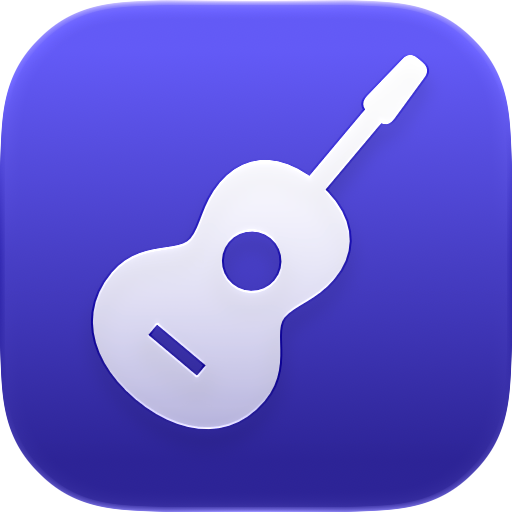
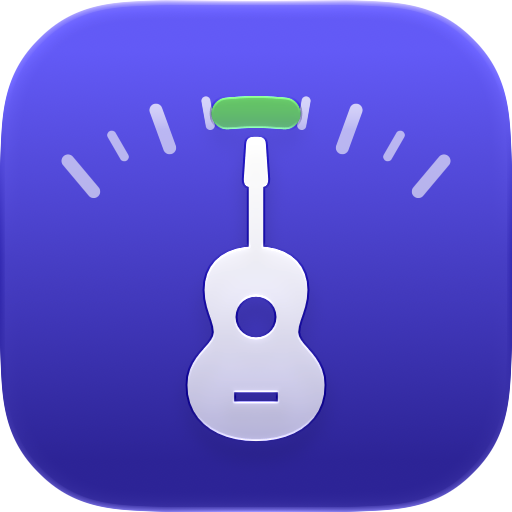
Icona "chitarra-ago", finestre Mac affidabili e audit di accessibilità su tutte le piattaforme
- Icona: la chitarra è l'ago di uno strumento di misura e punta alla zona verde della scala (tre livelli Icon Composer: chitarra in vetro, zona intonata, scala)
- macOS: niente Automatic Termination (un'app "chiusa" restava viva senza finestre e il rilancio la riusava); Informazioni e Licenza non si riaprono all'avvio; i test UI portano l'app in primo piano se il runner l'ha avviata in background
- VoiceOver su Mac: i chip delle corde e Auto restano pulsanti con azione, quadrante e lettura come testo statico, selettore d'ingresso come pop-up di sistema (menu su iPhone e iPad)
- Pulsante principale come capsula piena senza vetro sovrapposto; messaggio d'errore e numeri delle corde in colore primario
- L'audit dei test UI non campiona più il contrasto (falsi positivi su nero-su-bianco vicino al Liquid Glass): il contrasto resta verificato con la formula WCAG da ColorContrastTests, che ora compila anche con Swift 6.2
- Screenshot: la seconda schermata cattura la corda ancora calante, la quarta è davvero in modo scuro; gli screenshot generati non sono versionati

diff --git a/ChitarraTuneUITests/ChitarraTuneUITests.swift b/ChitarraTuneUITests/ChitarraTuneUITests.swift
@@ -10,10 +10,6 @@ final class ChitarraTuneUITests: XCTestCase {
         continueAfterFailure = false
         app = XCUIApplication()
         app.launchArguments += ["-demo", "-AppleLanguages", "(en)", "-AppleLocale", "en_US"]
-        #if os(macOS)
-        // Every test starts from a fresh window, not the windows macOS restored from the last run.
-        app.launchArguments += ["-ApplePersistenceIgnoreState", "YES"]
-        #endif
     }
 
     override func tearDown() async throws {
@@ -30,24 +26,28 @@ final class ChitarraTuneUITests: XCTestCase {
     }
 
     private func waitForTuner(file: StaticString = #filePath, line: UInt = #line) {
+        #if os(macOS)
+        // AppKit opens the first window when the app becomes active. A runner that launched it in
+        // the background (CI, or a Mac in use) must bring it forward.
+        if !element("listenButton").waitForExistence(timeout: 5) { app.activate() }
+        #endif
         XCTAssertTrue(element("listenButton").waitForExistence(timeout: 15), "Tuner did not appear", file: file, line: line)
     }
 
-    /// Xcode's automatic accessibility audit (labels, hit regions, Dynamic Type, clipping, contrast,
-    /// traits). Every issue is reported with the element it concerns, then the test fails once.
+    /// Xcode's automatic accessibility audit: element descriptions, hit regions, traits, actions,
+    /// clipping and Dynamic Type. Every issue is reported with the element it concerns, then the test
+    /// fails once. The few accepted exceptions are in ``isAcceptedException(_:)``, each with its reason.
     ///
-    /// The only issues tolerated are listed in ``isAcceptedException(_:)``, each with its reason.
-    ///
-    /// `live` screens redraw about 40 times a second and animate their colours, so the contrast
-    /// check would sample half-drawn frames there. Their colours are checked deterministically, from
-    /// the asset catalog, by `ColorContrastTests`; every other audit still runs on them.
-    private func audit(_ screen: String, live: Bool = false, file: StaticString = #filePath, line: UInt = #line) throws {
+    /// Contrast is not sampled here. The audit reads rendered pixels and flags black text on white
+    /// once Liquid Glass or an animated background is nearby; contrast is instead computed exactly,
+    /// with the WCAG formula, for every colour of the asset catalog in every appearance, by
+    /// `ColorContrastTests`.
+    private func audit(_ screen: String, file: StaticString = #filePath, line: UInt = #line) throws {
         // Let transitions finish (the background fades between states over 0.6 s), so the audit
         // measures the screen as the user sees it, not a frame in between.
         _ = XCTWaiter.wait(for: [XCTestExpectation(description: "settle")], timeout: 1)
         var problems: [String] = []
-        let types: XCUIAccessibilityAuditType = live ? XCUIAccessibilityAuditType.all.subtracting(.contrast) : .all
-        try app.performAccessibilityAudit(for: types) { issue in
+        try app.performAccessibilityAudit(for: XCUIAccessibilityAuditType.all.subtracting(.contrast)) { issue in
             if self.isAcceptedException(issue) { return true }
             let element = issue.element.map {
                 "\($0.elementType.rawValue) '\($0.identifier)' '\($0.label)' at \($0.frame)"
@@ -66,6 +66,14 @@ final class ChitarraTuneUITests: XCTestCase {
 
     /// Accepted audit findings. Keep this list short and justified.
     private func isAcceptedException(_ issue: XCUIAccessibilityAuditIssue) -> Bool {
+        #if os(macOS)
+        // The Touch Bar and the window's own content groups are AppKit's, not the app's.
+        if let element = issue.element {
+            if element.elementType == .touchBar { return true }
+            let window = app.windows.firstMatch
+            if element.elementType == .group, element.label.isEmpty, window.exists, element.frame == window.frame { return true }
+        }
+        #endif
         #if os(iOS)
         guard issue.auditType == .dynamicType, let element = issue.element else { return false }
         // The ♭ and ♯ at the ends of the gauge are decorative (hidden from VoiceOver) and sized to
@@ -78,6 +86,9 @@ final class ChitarraTuneUITests: XCTestCase {
         if readout.exists, readout.frame.intersects(element.frame), element.frame.height > 60 { return true }
         // Bar buttons are capped by the system and offer the Large Content Viewer instead.
         if app.navigationBars.allElementsBoundByIndex.contains(where: { $0.frame.contains(element.frame) }) { return true }
+        // Rows, headers and footers of the Settings form are system list cells, which scale their
+        // own text (on iPad a form sheet keeps its width, so the audit reports them as partial).
+        if app.collectionViews.allElementsBoundByIndex.contains(where: { $0.frame.contains(element.frame) }) { return true }
         #endif
         return false
     }
@@ -217,7 +228,7 @@ final class ChitarraTuneUITests: XCTestCase {
         let hasNote = NSPredicate(format: "value MATCHES %@", "^[A-G][♯♭]?[0-9], .*")
         expectation(for: hasNote, evaluatedWith: element("noteReadout"))
         waitForExpectations(timeout: 15)
-        try audit("Tuner while listening", live: true)
+        try audit("Tuner while listening")
     }
 
     func testAccessibilityAuditMicrophoneExplanation() throws {
@@ -263,7 +274,7 @@ final class ChitarraTuneUITests: XCTestCase {
         expectation(for: hasNote, evaluatedWith: element("noteReadout"))
         waitForExpectations(timeout: 15)
         element("stringChip.3").tap()
-        try audit("Tuner in Dark Mode, string pinned", live: true)
+        try audit("Tuner in Dark Mode, string pinned")
     }
 
     func testAccessibilityAuditLandscape() throws {

diff --git a/ChitarraTuneUITests/AppStoreScreenshots.swift b/ChitarraTuneUITests/AppStoreScreenshots.swift
@@ -15,9 +15,6 @@ final class AppStoreScreenshots: XCTestCase {
         let locale = language == "it" ? "it_IT" : "en_US"
         app = XCUIApplication()
         app.launchArguments += ["-demo", "-AppleLanguages", "(\(language))", "-AppleLocale", locale]
-        #if os(macOS)
-        app.launchArguments += ["-ApplePersistenceIgnoreState", "YES"]
-        #endif
     }
 
     override func tearDown() async throws {
@@ -28,6 +25,13 @@ final class AppStoreScreenshots: XCTestCase {
 
     private func element(_ identifier: String) -> XCUIElement {
         app.descendants(matching: .any).matching(identifier: identifier).firstMatch
+    }
+
+    private func launch() {
+        app.launch()
+        #if os(macOS)
+        if !element("listenButton").waitForExistence(timeout: 5) { app.activate() }
+        #endif
     }
 
     private func snapshot(_ name: String) {
@@ -53,23 +57,20 @@ final class AppStoreScreenshots: XCTestCase {
     /// 1. A string in tune. 2. The next string, still flat, with its advice.
     func test1Tuning() {
         app.launchArguments += ["-autostart"]
-        app.launch()
+        launch()
         waitForReadout(matching: inTunePattern)
         snapshot("01-in-tune")
 
-        // The demo plucks the next string about 28 cents flat and lets it drift up.
-        let current = element("noteReadout").value as? String ?? ""
-        let note = String(current.prefix { $0 != "," })
-        let next = NSPredicate(format: "NOT (value BEGINSWITH %@) AND NOT (value MATCHES %@)", note + ",", inTunePattern)
-        expectation(for: next, evaluatedWith: element("noteReadout"))
-        waitForExpectations(timeout: 10)
-        Thread.sleep(forTimeInterval: 0.4)
+        // The demo plucks the next string about 28 cents flat and lets it drift up: catch it while
+        // it is still clearly flat (more than 8 cents).
+        let flat = language == "it" ? ".*, ([89]|[1-9][0-9]) cent calant.*" : ".*, ([89]|[1-9][0-9]) cents flat.*"
+        waitForReadout(matching: flat, timeout: 10)
         snapshot("02-flat")
     }
 
     /// 3. Every tuning.
     func test2Tunings() {
-        app.launch()
+        launch()
         XCTAssertTrue(element("tuningPicker").waitForExistence(timeout: 15))
         element("tuningPicker").tap()
         Thread.sleep(forTimeInterval: 0.8)
@@ -78,11 +79,13 @@ final class AppStoreScreenshots: XCTestCase {
 
     /// 4. The bar gauge in Dark Mode (iPhone, iPad) with a pinned string.
     func test3BarGauge() {
-        #if os(iOS)
-        XCUIDevice.shared.appearance = .dark
-        #endif
         app.launchArguments += ["-autostart", "-settings.gauge", "bar"]
-        app.launch()
+        launch()
+        #if os(iOS)
+        // Set once the app runs, so the running scene picks the change up.
+        XCUIDevice.shared.appearance = .dark
+        Thread.sleep(forTimeInterval: 1)
+        #endif
         XCTAssertTrue(element("stringChip.5").waitForExistence(timeout: 15))
         element("stringChip.5").tap()
         waitForReadout(matching: inTunePattern, timeout: 30)
@@ -91,7 +94,7 @@ final class AppStoreScreenshots: XCTestCase {
 
     /// 5. Settings.
     func test4Settings() {
-        app.launch()
+        launch()
         XCTAssertTrue(element("listenButton").waitForExistence(timeout: 15))
         #if os(macOS)
         app.typeKey(",", modifierFlags: .command)

diff --git a/App/Tuner/InputMenu.swift b/App/Tuner/InputMenu.swift
@@ -7,12 +7,22 @@ struct InputMenu: View {
     @Bindable var model: TunerModel
 
     var body: some View {
+        #if os(macOS)
+        // The Mac's pop-up button: the system shows the current input and the check mark, and
+        // assistive tools get the standard press action.
+        Picker(selection: selection) {
+            options
+        } label: {
+            Text(.inputTitle)
+        }
+        .pickerStyle(.menu)
+        .help(Text(.inputTitle))
+        .accessibilityIdentifier("inputMenu")
+        #else
+        // iPhone and iPad: a toolbar menu whose button shows the input in use.
         Menu {
             Picker(selection: selection) {
-                Text(.inputSystemDefault).tag(AudioInputSelection.systemDefault)
-                ForEach(model.availableInputs) { device in
-                    Text(device.name).tag(AudioInputSelection.device(id: device.id))
-                }
+                options
             } label: {
                 Text(.inputTitle)
             }
@@ -26,6 +36,15 @@ struct InputMenu: View {
         }
         .accessibilityLabel(Text(.inputA11Y(model.activeInputName ?? String(localized: .inputMicrophone))))
         .accessibilityIdentifier("inputMenu")
+        #endif
+    }
+
+    @ViewBuilder
+    private var options: some View {
+        Text(.inputSystemDefault).tag(AudioInputSelection.systemDefault)
+        ForEach(model.availableInputs) { device in
+            Text(device.name).tag(AudioInputSelection.device(id: device.id))
+        }
     }
 
     private var selection: Binding<AudioInputSelection> {

diff --git a/App/Tuner/StringSelector.swift b/App/Tuner/StringSelector.swift
@@ -60,7 +60,7 @@ struct StringSelector: View {
                     .fixedSize()
                 Text(verbatim: "\(index + 1)")
                     .font(.caption2.weight(.medium))
-                    .foregroundStyle(emphasised ? Color.white : Color.tuneSecondaryLabel)
+                    .foregroundStyle(emphasised ? Color.white : Color.primary)
             }
             .frame(maxWidth: .infinity, minHeight: 56)
             .padding(.horizontal, 4)
@@ -85,7 +85,8 @@ struct StringSelector: View {
                     .accessibilityHidden(true)
             }
         }
-        .accessibilityElement(children: .ignore)
+        // A Button stays one element with its role and press action on every platform; only its
+        // label is replaced (the string number is spoken as the value).
         .accessibilityLabel(Text(note.chipLabel(notation)))
         .accessibilityValue(Text(.tunerString(index + 1)))
         .accessibilityHint(Text(.a11YPinHint))
@@ -121,9 +122,8 @@ struct AutoChip: View {
         }
         .glassEffect(.regular.interactive(), in: .capsule)
         .foregroundStyle(isAuto ? Color.white : Color.primary)
-        .accessibilityElement(children: .ignore)
         .accessibilityLabel(Text(.tunerAuto))
-        .accessibilityAddTraits(isAuto ? [.isButton, .isSelected] : .isButton)
+        .accessibilityAddTraits(isAuto ? .isSelected : [])
         .accessibilityHint(Text(.a11YAutoHint))
         .accessibilityIdentifier("autoChip")
     }

diff --git a/App/DesignSystem/ButtonStyles.swift b/App/DesignSystem/ButtonStyles.swift
@@ -1,6 +1,6 @@
 import SwiftUI
 
-/// The primary action: white text on a solid fill, inside an interactive glass capsule.
+/// The primary action: white text on a solid capsule.
 ///
 /// The fill is opaque on purpose. White on a translucent tinted glass depends on whatever is behind
 /// it and can drop well below 4.5:1; on the solid ``Color/tuneAccentFill`` or ``Color/tuneRedFill``
@@ -19,8 +19,9 @@ struct ProminentCapsuleButtonStyle: ButtonStyle {
             .frame(minHeight: 52)
             .background(Capsule().fill(fill))
             .contentShape(.capsule)
-            .glassEffect(.regular.interactive(), in: .capsule)
+            .scaleEffect(configuration.isPressed ? 0.97 : 1)
             .opacity(isEnabled ? (configuration.isPressed ? 0.85 : 1) : 0.5)
+            .animation(.snappy(duration: 0.15), value: configuration.isPressed)
     }
 }
 

diff --git a/Packages/ChitarraTuneKit/Tests/RepositoryPolicyTests/ColorContrastTests.swift b/Packages/ChitarraTuneKit/Tests/RepositoryPolicyTests/ColorContrastTests.swift
@@ -53,7 +53,8 @@ struct ColorContrastTests {
     /// The window background and the tinted washes drawn over it.
     static func backgrounds(_ appearance: Appearance) throws -> [(String, RGB)] {
         let base = appearance.isDark ? black : white
-        var result = [("window", base), ("grouped form", appearance.isDark ? (0.11, 0.11, 0.118) : (0.949, 0.949, 0.969))]
+        let grouped: RGB = appearance.isDark ? (0.11, 0.11, 0.118) : (0.949, 0.949, 0.969)
+        var result: [(String, RGB)] = [("window", base), ("grouped form", grouped)]
         for tint in ["AccentColor", "TuneGreen", "TuneAmber", "TuneRed"] {
             result.append(("\(tint) wash", blend(try color(tint, appearance), wash, over: base)))
         }

diff --git a/App/ChitarraTuneApp.swift b/App/ChitarraTuneApp.swift
@@ -39,16 +39,19 @@ struct ChitarraTuneApp: App {
             NavigationStack { SettingsView(settings: hub.settings) }
         }
 
+        // Auxiliary windows open on request, never by themselves at launch.
         Window(Text(.aboutTitle), id: "about") {
             AboutView()
         }
         .windowResizability(.contentSize)
         .windowStyle(.hiddenTitleBar)
+        .restorationBehavior(.disabled)
 
         Window(Text(.licenseTitle), id: "license") {
             LicenseView()
         }
         .windowResizability(.contentSize)
+        .restorationBehavior(.disabled)
         #else
         WindowGroup {
             TunerWindow(hub: hub, id: hub.primaryID)

diff --git a/App/Tuner/GaugeView.swift b/App/Tuner/GaugeView.swift
@@ -30,6 +30,7 @@ struct GaugeView: View {
             .accessibilityHidden(true)
         }
         .accessibilityElement(children: .ignore)
+        .accessibilityAddTraits(.isStaticText)
         .accessibilityLabel(Text(.gaugeLabel))
         .accessibilityValue(Text(accessibilityValue))
         .accessibilityAddTraits(.updatesFrequently)

diff --git a/App/Tuner/NoteReadout.swift b/App/Tuner/NoteReadout.swift
@@ -32,6 +32,7 @@ struct NoteReadout: View {
         }
         .frame(maxWidth: .infinity)
         .accessibilityElement(children: .ignore)
+        .accessibilityAddTraits(.isStaticText)
         .accessibilityLabel(Text(.a11YNote))
         .accessibilityValue(Text(accessibilityValue))
         .accessibilityAddTraits(.updatesFrequently)

diff --git a/App/Tuner/TunerScreen.swift b/App/Tuner/TunerScreen.swift
@@ -54,6 +54,8 @@ struct TunerScreen: View {
                 tuner
             }
         }
+        .accessibilityElement(children: .contain)
+        .accessibilityLabel(Text(.appName))
         .navigationTitle(Text(.appName))
         #if os(macOS)
         .navigationSubtitle(Text(model.tuning.id.title))

diff --git a/App/Tuner/FailureView.swift b/App/Tuner/FailureView.swift
@@ -41,7 +41,6 @@ struct FailureView: View {
                     .accessibilityAddTraits(.isHeader)
 
                 Text(failure.message)
-                    .foregroundStyle(Color.tuneSecondaryLabel)
                     .multilineTextAlignment(.center)
 
                 VStack(spacing: 10) {

diff --git a/CHANGELOG.md b/CHANGELOG.md
@@ -26,7 +26,7 @@ Version 2.0 is a ground-up rewrite, and the first release for the App Store (iPh
 - A screen that explains why the tuner needs the microphone before the system asks.
 - Listening resumes by itself after a phone call or Siri, and restarts after a reset of the media services.
 - A *Start Tuning* control for Control Center, the Lock Screen and the Action Button (iPhone, iPad) and Control Center and the menu bar (Mac).
-- A new app icon for Liquid Glass, made in Icon Composer, with dark, clear and tinted appearances.
+- A new app icon for Liquid Glass, made in Icon Composer: the guitar is the needle of a meter, pointing at the green in-tune mark of a scale, in default, dark, clear and tinted appearances.
 - App Store listing in English and Italian, review notes, support page, updated privacy policy, device test plan and submission runbook.
 - Release workflow for the App Store: iOS/iPadOS and macOS archives with cloud-managed signing, uploaded to App Store Connect; version bump and release-notes scripts.
 - Ten tunings (Standard, Half step down, Full step down, Drop D, Drop C, DADGAD, Open D, Open G, Open E, Open A).
@@ -39,6 +39,7 @@ Version 2.0 is a ground-up rewrite, and the first release for the App Store (iPh
 
 - Accessibility, found by Xcode's audit now run on every screen: the *Auto* chip had an 18-point touch target; secondary text, white text on tinted glass in Dark Mode and green and amber text did not reach 4.5:1 contrast; the string chips shrank their labels instead of growing with Dynamic Type; the landscape layout and the failure screen clipped text at the largest sizes; a disabled *Reset* button was unreadable.
 - Two sheets on the same view meant the Settings sheet shadowed any other; the explanation screen and Settings now share one.
+- macOS: automatic termination is off, so a relaunch never reuses an invisible, windowless process; the About and License windows no longer reopen at launch. The string chips, the gauge and the input menu keep proper roles and actions for VoiceOver on the Mac.
 - The demo mode no longer shows third-party product names.
 - A `NaN` A4 stored in the preferences no longer crashes the engine (it used to survive the clamp and trap on the first audio chunk); it now falls back to 440 Hz.
 - On an audio interface the tuner now listens to the loudest input channel instead of always channel 0, so a guitar plugged into input 2 is heard.
